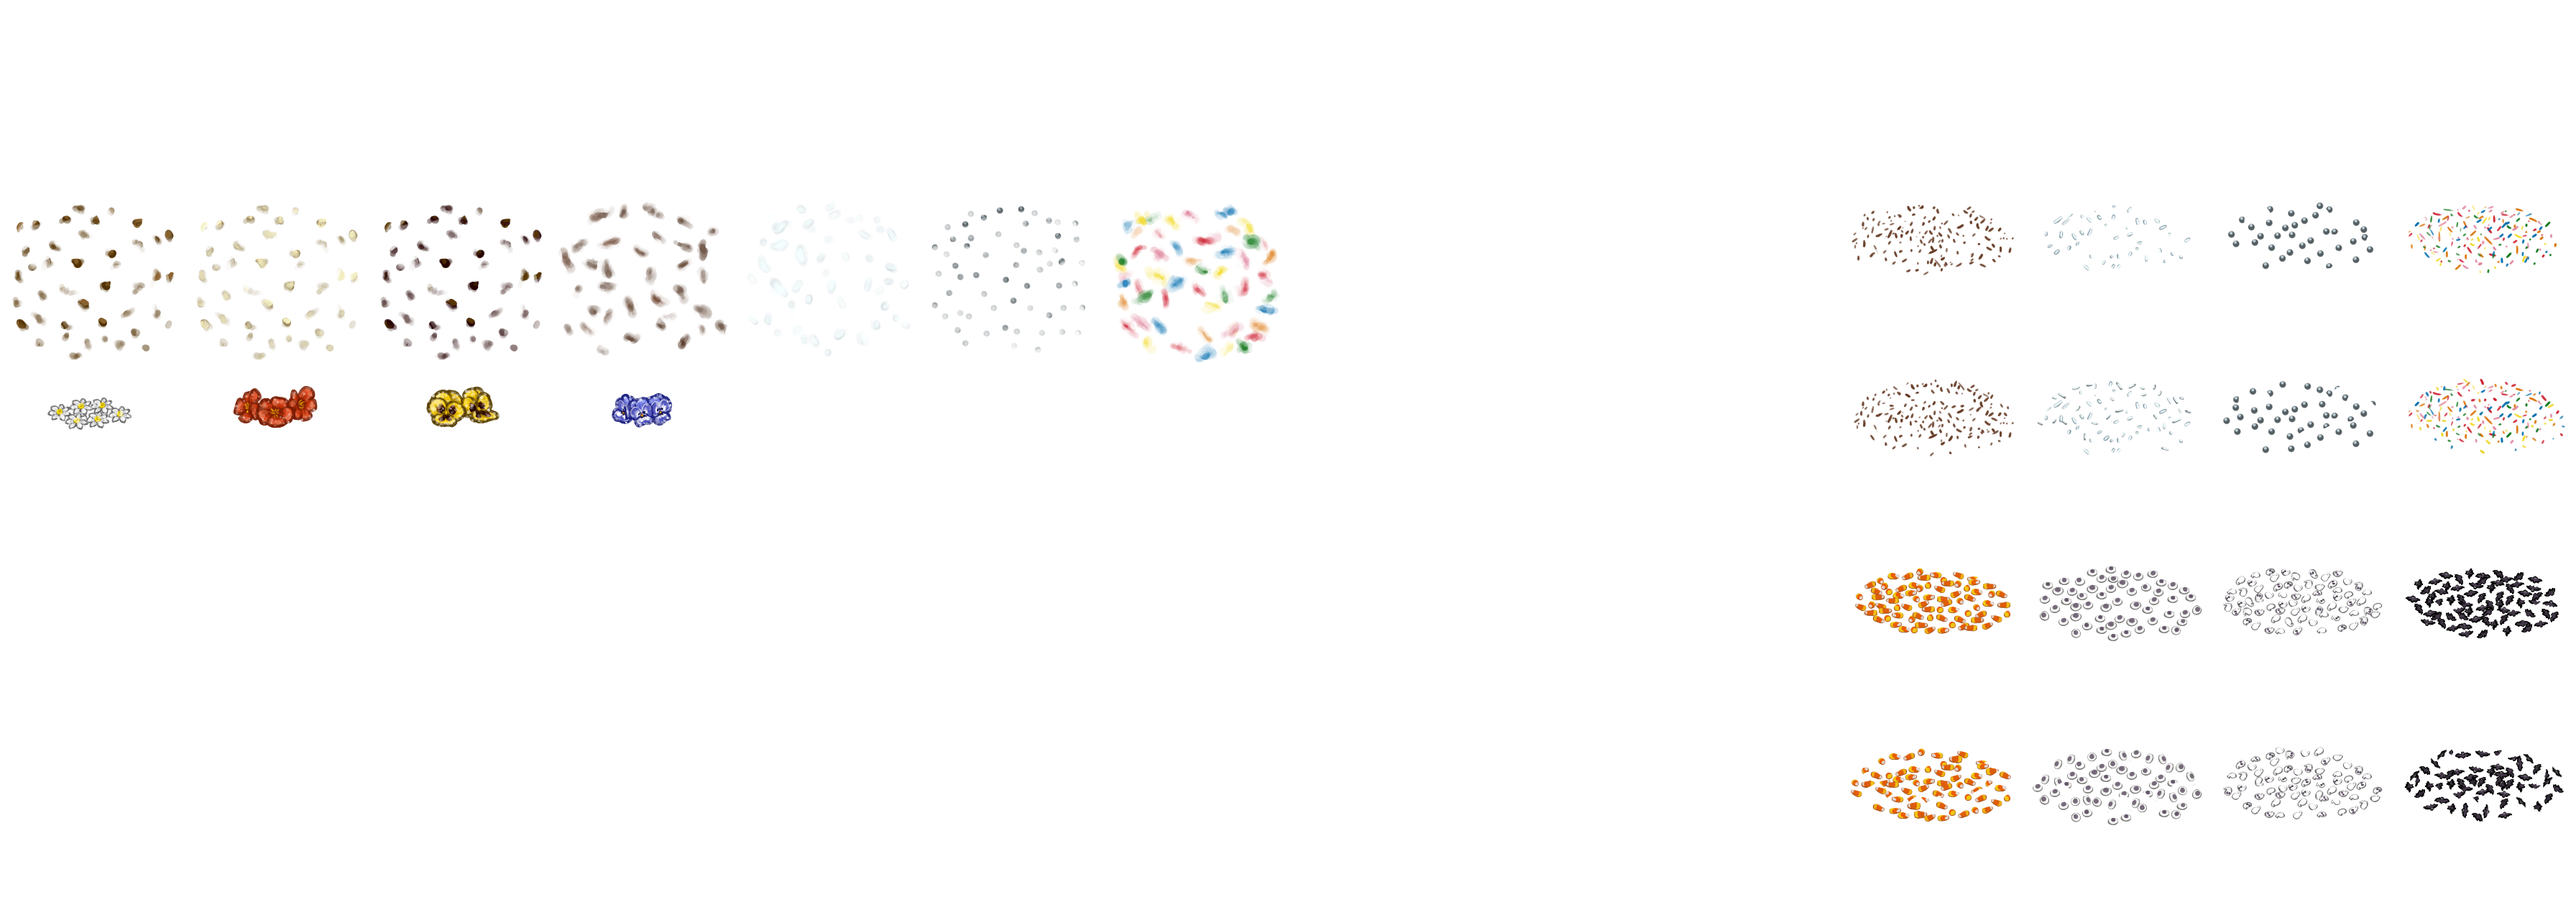
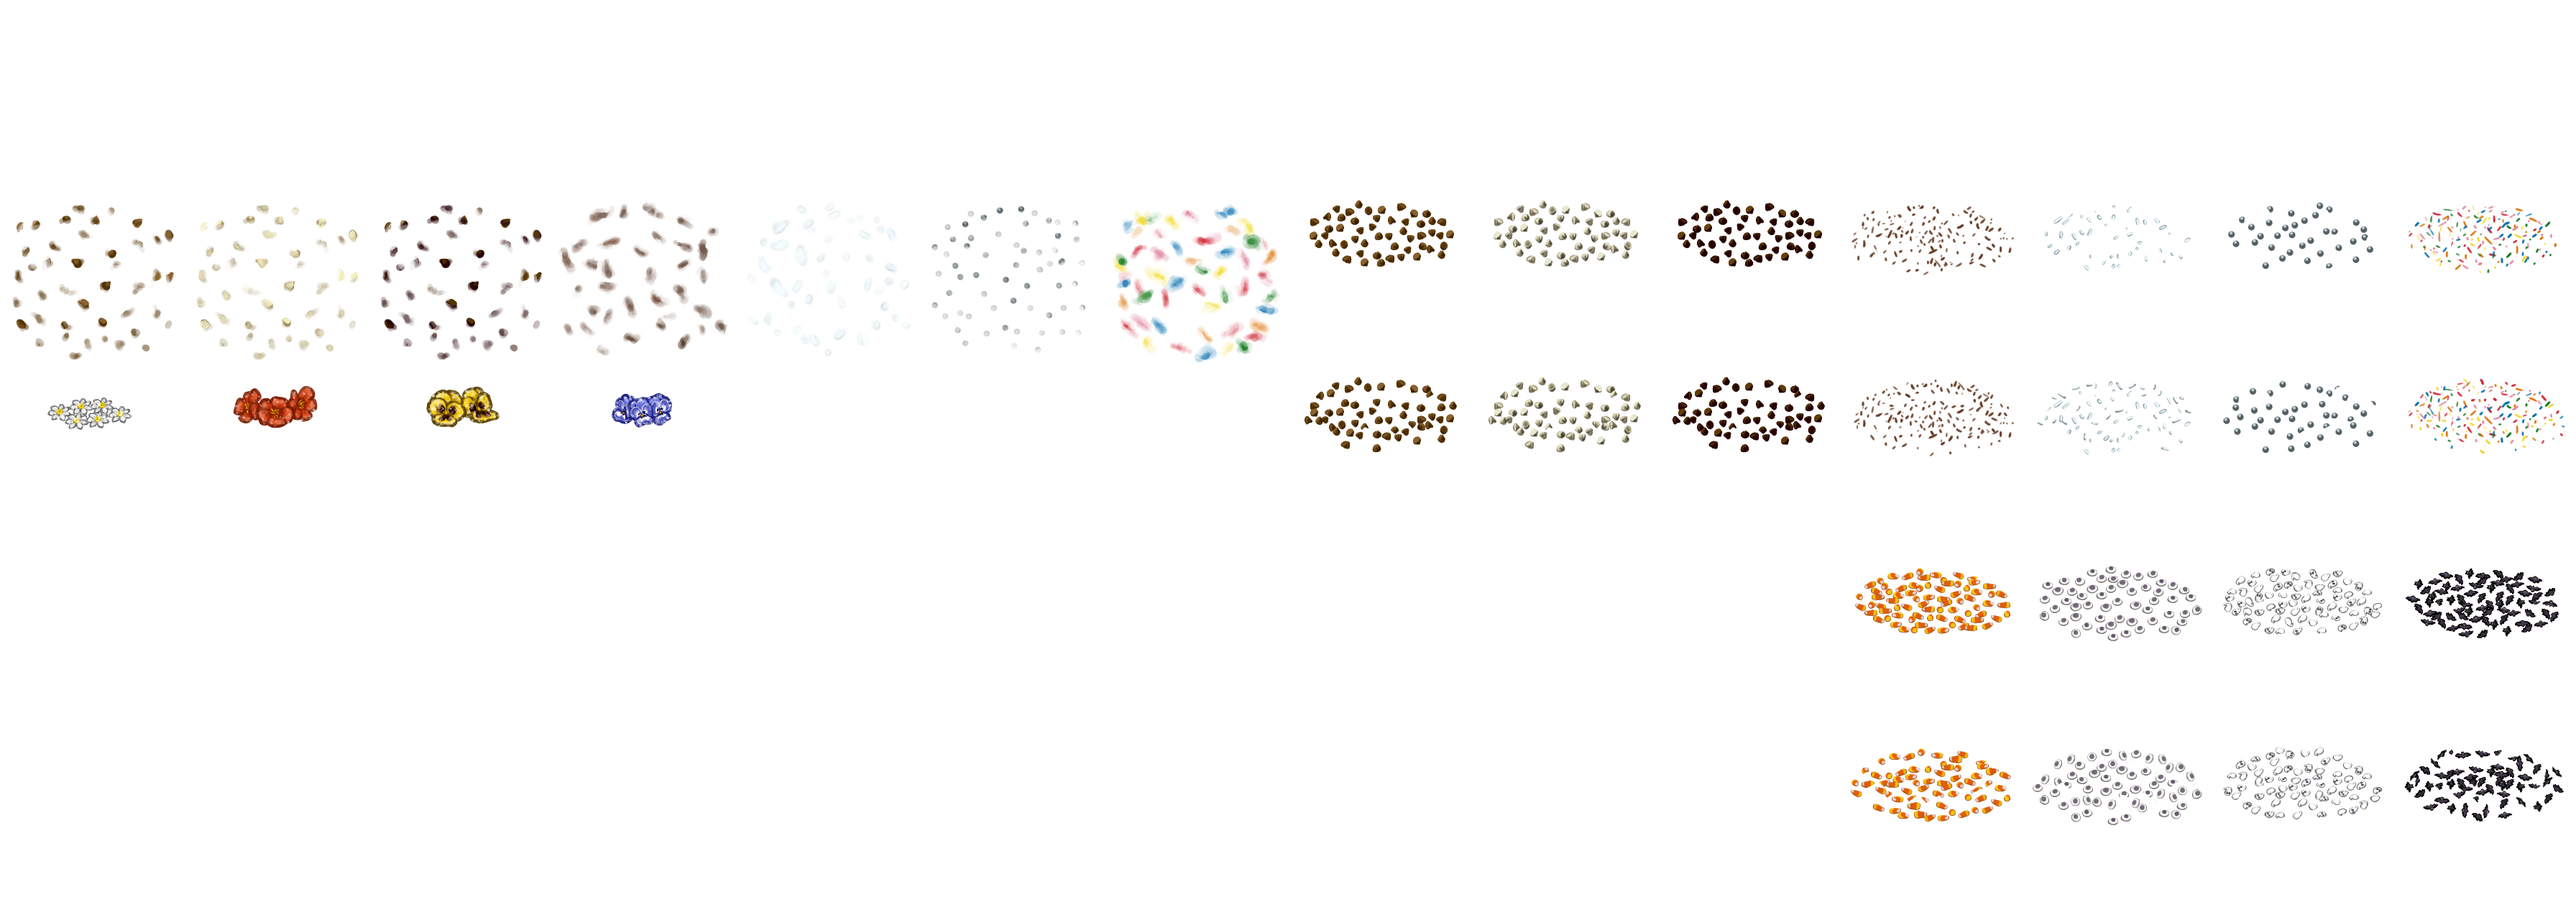
Chocolate chips can go on cake (graphics)

Changed region(s): [[0.5, 0.4062, 0.7188, 0.5], [0.5, 0.2188, 0.7188, 0.2812]]

diff --git a/business/items/draw_sprites_generator.ts b/business/items/draw_sprites_generator.ts
@@ -339,6 +339,9 @@ const data: Record<string, Record<string, Record<string, DrawLayer>>> = {
 		},
 		// If there are doodads, draw them this way if there was NO PIPING drawn:
 		doodads_without_piping: {
+			chocolate_chips:       { type: 'sprite', mode: 'mix', file: fileNames.cake, x: 7, y: 1 },
+			white_chocolate_chips: { type: 'sprite', mode: 'mix', file: fileNames.cake, x: 8, y: 1 },
+			dark_chocolate_chips:  { type: 'sprite', mode: 'mix', file: fileNames.cake, x: 9, y: 1 },
 			chocolate_sprinkles:   { type: 'sprite', mode: 'mix', file: fileNames.cake, x: 10, y: 1 },
 			white_sprinkles:       { type: 'sprite', mode: 'mix', file: fileNames.cake, x: 11, y: 1 },
 			ball_bearing_sprinkles:{ type: 'sprite', mode: 'mix', file: fileNames.cake, x: 12, y: 1 },
@@ -354,6 +357,9 @@ const data: Record<string, Record<string, Record<string, DrawLayer>>> = {
 		},
 		// ...But draw them this way if there WAS piping drawn:
 		doodads_with_piping: {
+			chocolate_chips:       { type: 'sprite', mode: 'mix', file: fileNames.cake, x: 7, y: 2 },
+			white_chocolate_chips: { type: 'sprite', mode: 'mix', file: fileNames.cake, x: 8, y: 2 },
+			dark_chocolate_chips:  { type: 'sprite', mode: 'mix', file: fileNames.cake, x: 9, y: 2 },
 			chocolate_sprinkles:   { type: 'sprite', mode: 'mix', file: fileNames.cake, x: 10, y: 2 },
 			white_sprinkles:       { type: 'sprite', mode: 'mix', file: fileNames.cake, x: 11, y: 2 },
 			ball_bearing_sprinkles:{ type: 'sprite', mode: 'mix', file: fileNames.cake, x: 12, y: 2 },
@@ -420,6 +426,9 @@ const data: Record<string, Record<string, Record<string, DrawLayer>>> = {
 		},
 		// If there are doodads, draw them this way if there was NO PIPING drawn:
 		doodads_without_piping: {
+			chocolate_chips:       { type: 'sprite', mode: 'mix', file: fileNames.cake_slice, x: 7, y: 1 },
+			white_chocolate_chips: { type: 'sprite', mode: 'mix', file: fileNames.cake_slice, x: 8, y: 1 },
+			dark_chocolate_chips:  { type: 'sprite', mode: 'mix', file: fileNames.cake_slice, x: 9, y: 1 },
 			chocolate_sprinkles:   { type: 'sprite', mode: 'mix', file: fileNames.cake_slice, x: 10, y: 1 },
 			white_sprinkles:       { type: 'sprite', mode: 'mix', file: fileNames.cake_slice, x: 11, y: 1 },
 			ball_bearing_sprinkles:{ type: 'sprite', mode: 'mix', file: fileNames.cake_slice, x: 12, y: 1 },
@@ -435,6 +444,9 @@ const data: Record<string, Record<string, Record<string, DrawLayer>>> = {
 		},
 		// ...But draw them this way if there WAS piping drawn:
 		doodads_with_piping: {
+			chocolate_chips:       { type: 'sprite', mode: 'mix', file: fileNames.cake_slice, x: 7, y: 2 },
+			white_chocolate_chips: { type: 'sprite', mode: 'mix', file: fileNames.cake_slice, x: 8, y: 2 },
+			dark_chocolate_chips:  { type: 'sprite', mode: 'mix', file: fileNames.cake_slice, x: 9, y: 2 },
 			chocolate_sprinkles:   { type: 'sprite', mode: 'mix', file: fileNames.cake_slice, x: 10, y: 2 },
 			white_sprinkles:       { type: 'sprite', mode: 'mix', file: fileNames.cake_slice, x: 11, y: 2 },
 			ball_bearing_sprinkles:{ type: 'sprite', mode: 'mix', file: fileNames.cake_slice, x: 12, y: 2 },
@@ -485,8 +497,8 @@ const data: Record<string, Record<string, Record<string, DrawLayer>>> = {
 		// If `cocoa_powder` is present in modifiers, draw `chocolate_jar`
 		// Otherwise, draw `no_chocolate_jar`
 		jar: {
-			chocolate_jar: { type: 'sprite', mode: 'mix', file: fileNames.cake_slice, x: 1, y: 0 },
-			no_chocolate_jar: { type: 'sprite', mode: 'mix', file: fileNames.cake_slice, x: 2, y: 0 },
+			chocolate_jar: { type: 'sprite', mode: 'mix', file: fileNames.frosting, x: 2, y: 0 },
+			no_chocolate_jar: { type: 'sprite', mode: 'mix', file: fileNames.frosting, x: 3, y: 0 },
 		},
 		// If flavor count == 0 use the `plain` decal
 		// If flavor count == 1, use the decal for that flavor
@@ -494,20 +506,20 @@ const data: Record<string, Record<string, Record<string, DrawLayer>>> = {
 		// If flavor count == 2 and 1 is chocolate and 1 is something else, use the decal for the something else
 		// Otherwise use the `plain` decal
 		decals: {
-			cherry_flavoring:     { type: 'sprite', mode: 'mix', file: fileNames.cake_slice, x: 0, y: 1 },
-			raspberry_flavoring:  { type: 'sprite', mode: 'mix', file: fileNames.cake_slice, x: 1, y: 1 },
-			strawberry_flavoring: { type: 'sprite', mode: 'mix', file: fileNames.cake_slice, x: 2, y: 1 },
-			orange_flavoring:     { type: 'sprite', mode: 'mix', file: fileNames.cake_slice, x: 3, y: 1 },
-			almond_flavoring:     { type: 'sprite', mode: 'mix', file: fileNames.cake_slice, x: 4, y: 1 },
-			caramel_flavoring:    { type: 'sprite', mode: 'mix', file: fileNames.cake_slice, x: 5, y: 1 },
-			lemon_flavoring:      { type: 'sprite', mode: 'mix', file: fileNames.cake_slice, x: 6, y: 1 },
-			lime_flavoring:       { type: 'sprite', mode: 'mix', file: fileNames.cake_slice, x: 7, y: 1 },
-			mint_flavoring:       { type: 'sprite', mode: 'mix', file: fileNames.cake_slice, x: 8, y: 1 },
-			blueberry_flavoring:  { type: 'sprite', mode: 'mix', file: fileNames.cake_slice, x: 9, y: 1 },
-			ube_flavoring:        { type: 'sprite', mode: 'mix', file: fileNames.cake_slice, x: 10, y: 1 },
-			grape_flavoring:      { type: 'sprite', mode: 'mix', file: fileNames.cake_slice, x: 11, y: 1 },
-			cocoa_powder:         { type: 'sprite', mode: 'mix', file: fileNames.cake_slice, x: 12, y: 1 },
-			plain:                { type: 'sprite', mode: 'mix', file: fileNames.cake_slice, x: 13, y: 1 },
+			cherry_flavoring:     { type: 'sprite', mode: 'mix', file: fileNames.frosting, x: 0, y: 1 },
+			raspberry_flavoring:  { type: 'sprite', mode: 'mix', file: fileNames.frosting, x: 1, y: 1 },
+			strawberry_flavoring: { type: 'sprite', mode: 'mix', file: fileNames.frosting, x: 2, y: 1 },
+			orange_flavoring:     { type: 'sprite', mode: 'mix', file: fileNames.frosting, x: 3, y: 1 },
+			almond_flavoring:     { type: 'sprite', mode: 'mix', file: fileNames.frosting, x: 4, y: 1 },
+			caramel_flavoring:    { type: 'sprite', mode: 'mix', file: fileNames.frosting, x: 5, y: 1 },
+			lemon_flavoring:      { type: 'sprite', mode: 'mix', file: fileNames.frosting, x: 6, y: 1 },
+			lime_flavoring:       { type: 'sprite', mode: 'mix', file: fileNames.frosting, x: 7, y: 1 },
+			mint_flavoring:       { type: 'sprite', mode: 'mix', file: fileNames.frosting, x: 8, y: 1 },
+			blueberry_flavoring:  { type: 'sprite', mode: 'mix', file: fileNames.frosting, x: 9, y: 1 },
+			ube_flavoring:        { type: 'sprite', mode: 'mix', file: fileNames.frosting, x: 10, y: 1 },
+			grape_flavoring:      { type: 'sprite', mode: 'mix', file: fileNames.frosting, x: 11, y: 1 },
+			cocoa_powder:         { type: 'sprite', mode: 'mix', file: fileNames.frosting, x: 12, y: 1 },
+			plain:                { type: 'sprite', mode: 'mix', file: fileNames.frosting, x: 13, y: 1 },
 		}
 	},
 	cream: {base:{root: { type: 'sprite', mode: 'mix', file: fileNames.other, x: 0, y: 0 }}},
@@ -548,6 +560,7 @@ const data: Record<string, Record<string, Record<string, DrawLayer>>> = {
 	blueberry_flavoring: {base:{root: { type: 'sprite', mode: 'mix', file: fileNames.other, x: 9, y: 3 }}},
 	ube_flavoring: {base:{root: { type: 'sprite', mode: 'mix', file: fileNames.other, x: 10, y: 3 }}},
 	grape_flavoring: {base:{root: { type: 'sprite', mode: 'mix', file: fileNames.other, x: 11, y: 3 }}},
+	bowl: {base:{root: { type: 'sprite', mode: 'mix', file: fileNames.other, x: 6, y: 2 }}},
 };
 
 console.log(data);
